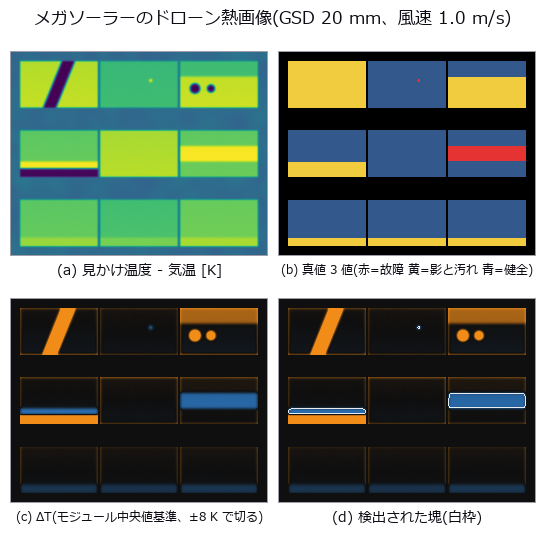
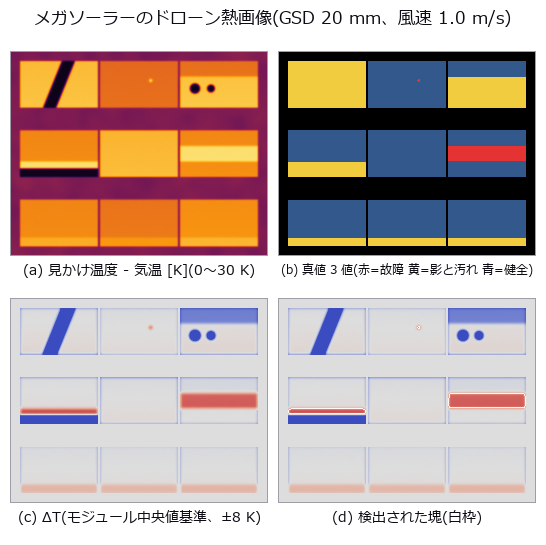
auto: poc_pv_thermal_survey.py 編集前 (2026-09-08 03:37)

diff --git a/examples/acoustic_condition_monitoring.py b/examples/acoustic_condition_monitoring.py
@@ -434,7 +434,60 @@ def main():
         except ValueError as exc:
             print(f"      rate={badv!r:12s} -> ValueError: {str(exc)[:66]}...")
 
-    print("\nPASS: acoustics 19 op すべてが閉形式のグラウンドトゥルースと一致")
+    # ── 11. gcc_delay: 2 チャンネルの到達時間差(仕込んだ遅れを回収する)──────
+    # 真値は「片方を整数標本だけ巡回シフトした」量。サブ標本の遅れは線形位相を
+    # 掛けて作るので、こちらも閉形式で分かる。
+    rng_g = np.random.default_rng(20260908)
+    n_g = 4096
+    src_g = rng_g.normal(size=n_g)
+    print("\n10) gcc_delay —— 到達時間差")
+    for lag_true in (37, -19, 0):
+        rec_a = src_g
+        rec_b = np.roll(src_g, lag_true) + 0.05 * rng_g.normal(size=n_g)
+        for w in ("none", "phat"):
+            d, tbl = A.gcc_delay(rec_a, rec_b, rate=fs, weight=w)
+            err = d * fs - lag_true
+            print(f"      真値 {lag_true:+4d} 標本 / weight={w:<5s} -> {d * fs:+9.3f} 標本 "
+                  f"(誤差 {err:+.3f}, ピーク比 {tbl['snr_peak']:.1f})")
+            assert abs(err) < 0.05, (lag_true, w, d * fs)
+            assert tbl["snr_peak"] > 3.0, tbl["snr_peak"]
+            assert tbl["r"].size == 2 * n_g - 1 and tbl["lags"].size == tbl["r"].size
+
+    # サブ標本の遅れ:線形位相で 0.37 標本ずらす(整数シフトでは作れない真値)
+    frac = 0.37
+    F = np.fft.rfft(src_g)
+    freqs_g = np.fft.rfftfreq(n_g)
+    shifted = np.fft.irfft(F * np.exp(-2j * np.pi * freqs_g * frac), n_g)
+    d_int, _ = A.gcc_delay(src_g, shifted, rate=fs, weight="none", interpolate=False)
+    d_sub, _ = A.gcc_delay(src_g, shifted, rate=fs, weight="none", interpolate=True)
+    print(f"      サブ標本 {frac} 標本: 補間なし {d_int * fs:+.3f} / 補間あり {d_sub * fs:+.3f}")
+    assert abs(d_int * fs - 0.0) < 1e-9                  # 補間しなければ整数に丸まる
+    assert abs(d_sub * fs - frac) < 0.05                 # 補間すればサブ標本まで出る
+
+    # 帯域を絞る / 重みを変えても、雑音の無い理想条件では同じ答えに収束する
+    d_band, _ = A.gcc_delay(src_g, np.roll(src_g, 37), rate=fs, weight="phat",
+                            band=(200.0, 3000.0))
+    print(f"      帯域 200-3000 Hz の PHAT: {d_band * fs:+.3f} 標本(真値 +37)")
+    assert abs(d_band * fs - 37.0) < 0.5
+
+    # fail-closed: 長さ違い / 未知の重み / 空になる帯域
+    for bad, why in (((src_g, src_g[:100]), "長さ違い"),):
+        try:
+            A.gcc_delay(bad[0], bad[1], rate=fs)
+            raise AssertionError("長さ違いが通った")
+        except ValueError as exc:
+            print(f"      {why}: ValueError: {str(exc)[:56]}...")
+    try:
+        A.gcc_delay(src_g, src_g, rate=fs, weight="magic")
+        raise AssertionError("未知の重みが通った")
+    except ValueError:
+        print("      未知の weight: ValueError")
+    try:
+        A.gcc_delay(src_g, src_g, rate=fs, band=(1e9, 2e9))
+        raise AssertionError("空の帯域が通った")
+    except ValueError:
+        print("      信号の無い帯域: ValueError(黙ってゼロの相関を返さない)")
+    print("\nPASS: acoustics 20 op すべてが閉形式のグラウンドトゥルースと一致")
     return True
 
 

diff --git a/examples/poc_pv_thermal_survey.py b/examples/poc_pv_thermal_survey.py
@@ -1164,15 +1164,13 @@ def section_figures(base: dict, norms: dict) -> None:
     d_mean = detect(t0, gt, "全体平均")
     d_med = detect(t0, gt, "モジュール中央値")
     figs.save_grid("false_map",
-                   [np.clip(d_mean["delta"], -clip, clip),
-                    d_mean["mask"].astype(float),
-                    np.clip(d_med["delta"], -clip, clip),
-                    d_med["mask"].astype(float)],
+                   [dv(d_mean["delta"]), d_mean["mask"].astype(float),
+                    dv(d_med["delta"]), d_med["mask"].astype(float)],
                    ["ΔT 全体平均基準(±%.0f K)" % clip,
                     "そこで上がった塊(= 偽 + 非故障)",
                     "ΔT モジュール中央値基準(±%.0f K)" % clip,
                     "そこで上がった塊"],
-                   ncols=2, signed=[True, False, True, False],
+                   ncols=2,
                    title="対照群: 電気的故障を 1 つも置いていない場面",
                    caption="上段の塊はすべて偽か非故障の温度差。基準の取り方"
                            "だけで消える。")
